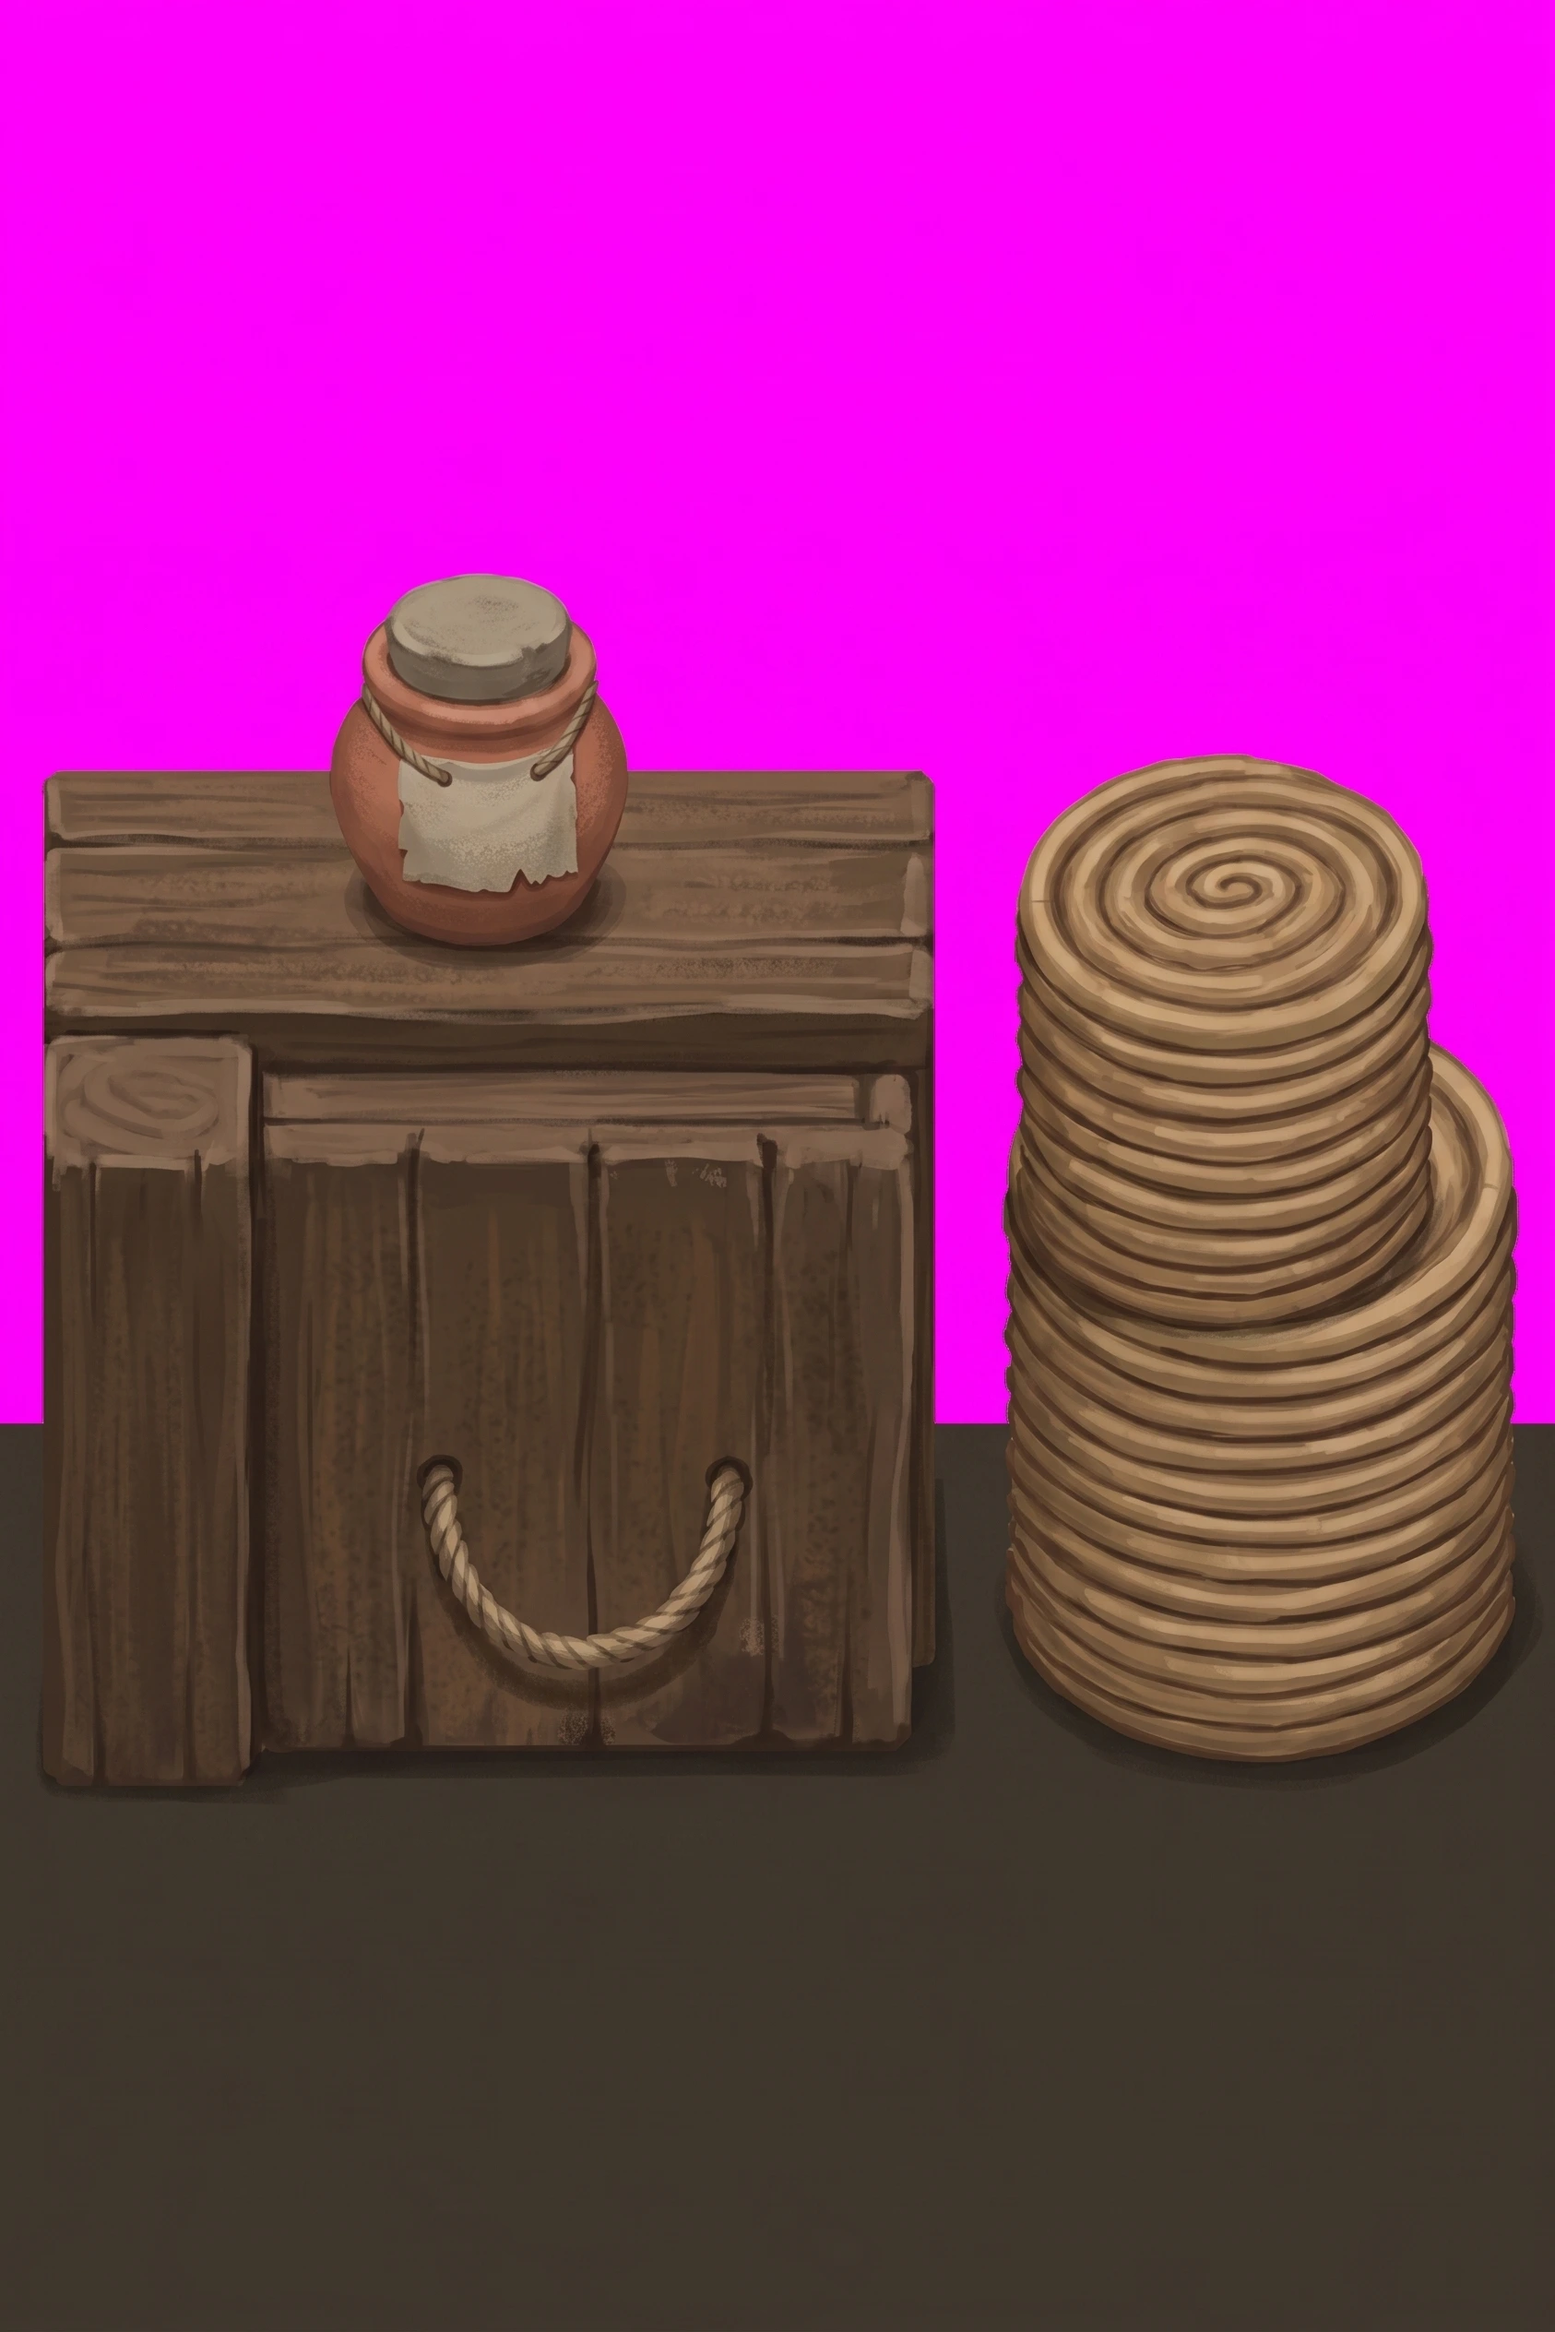
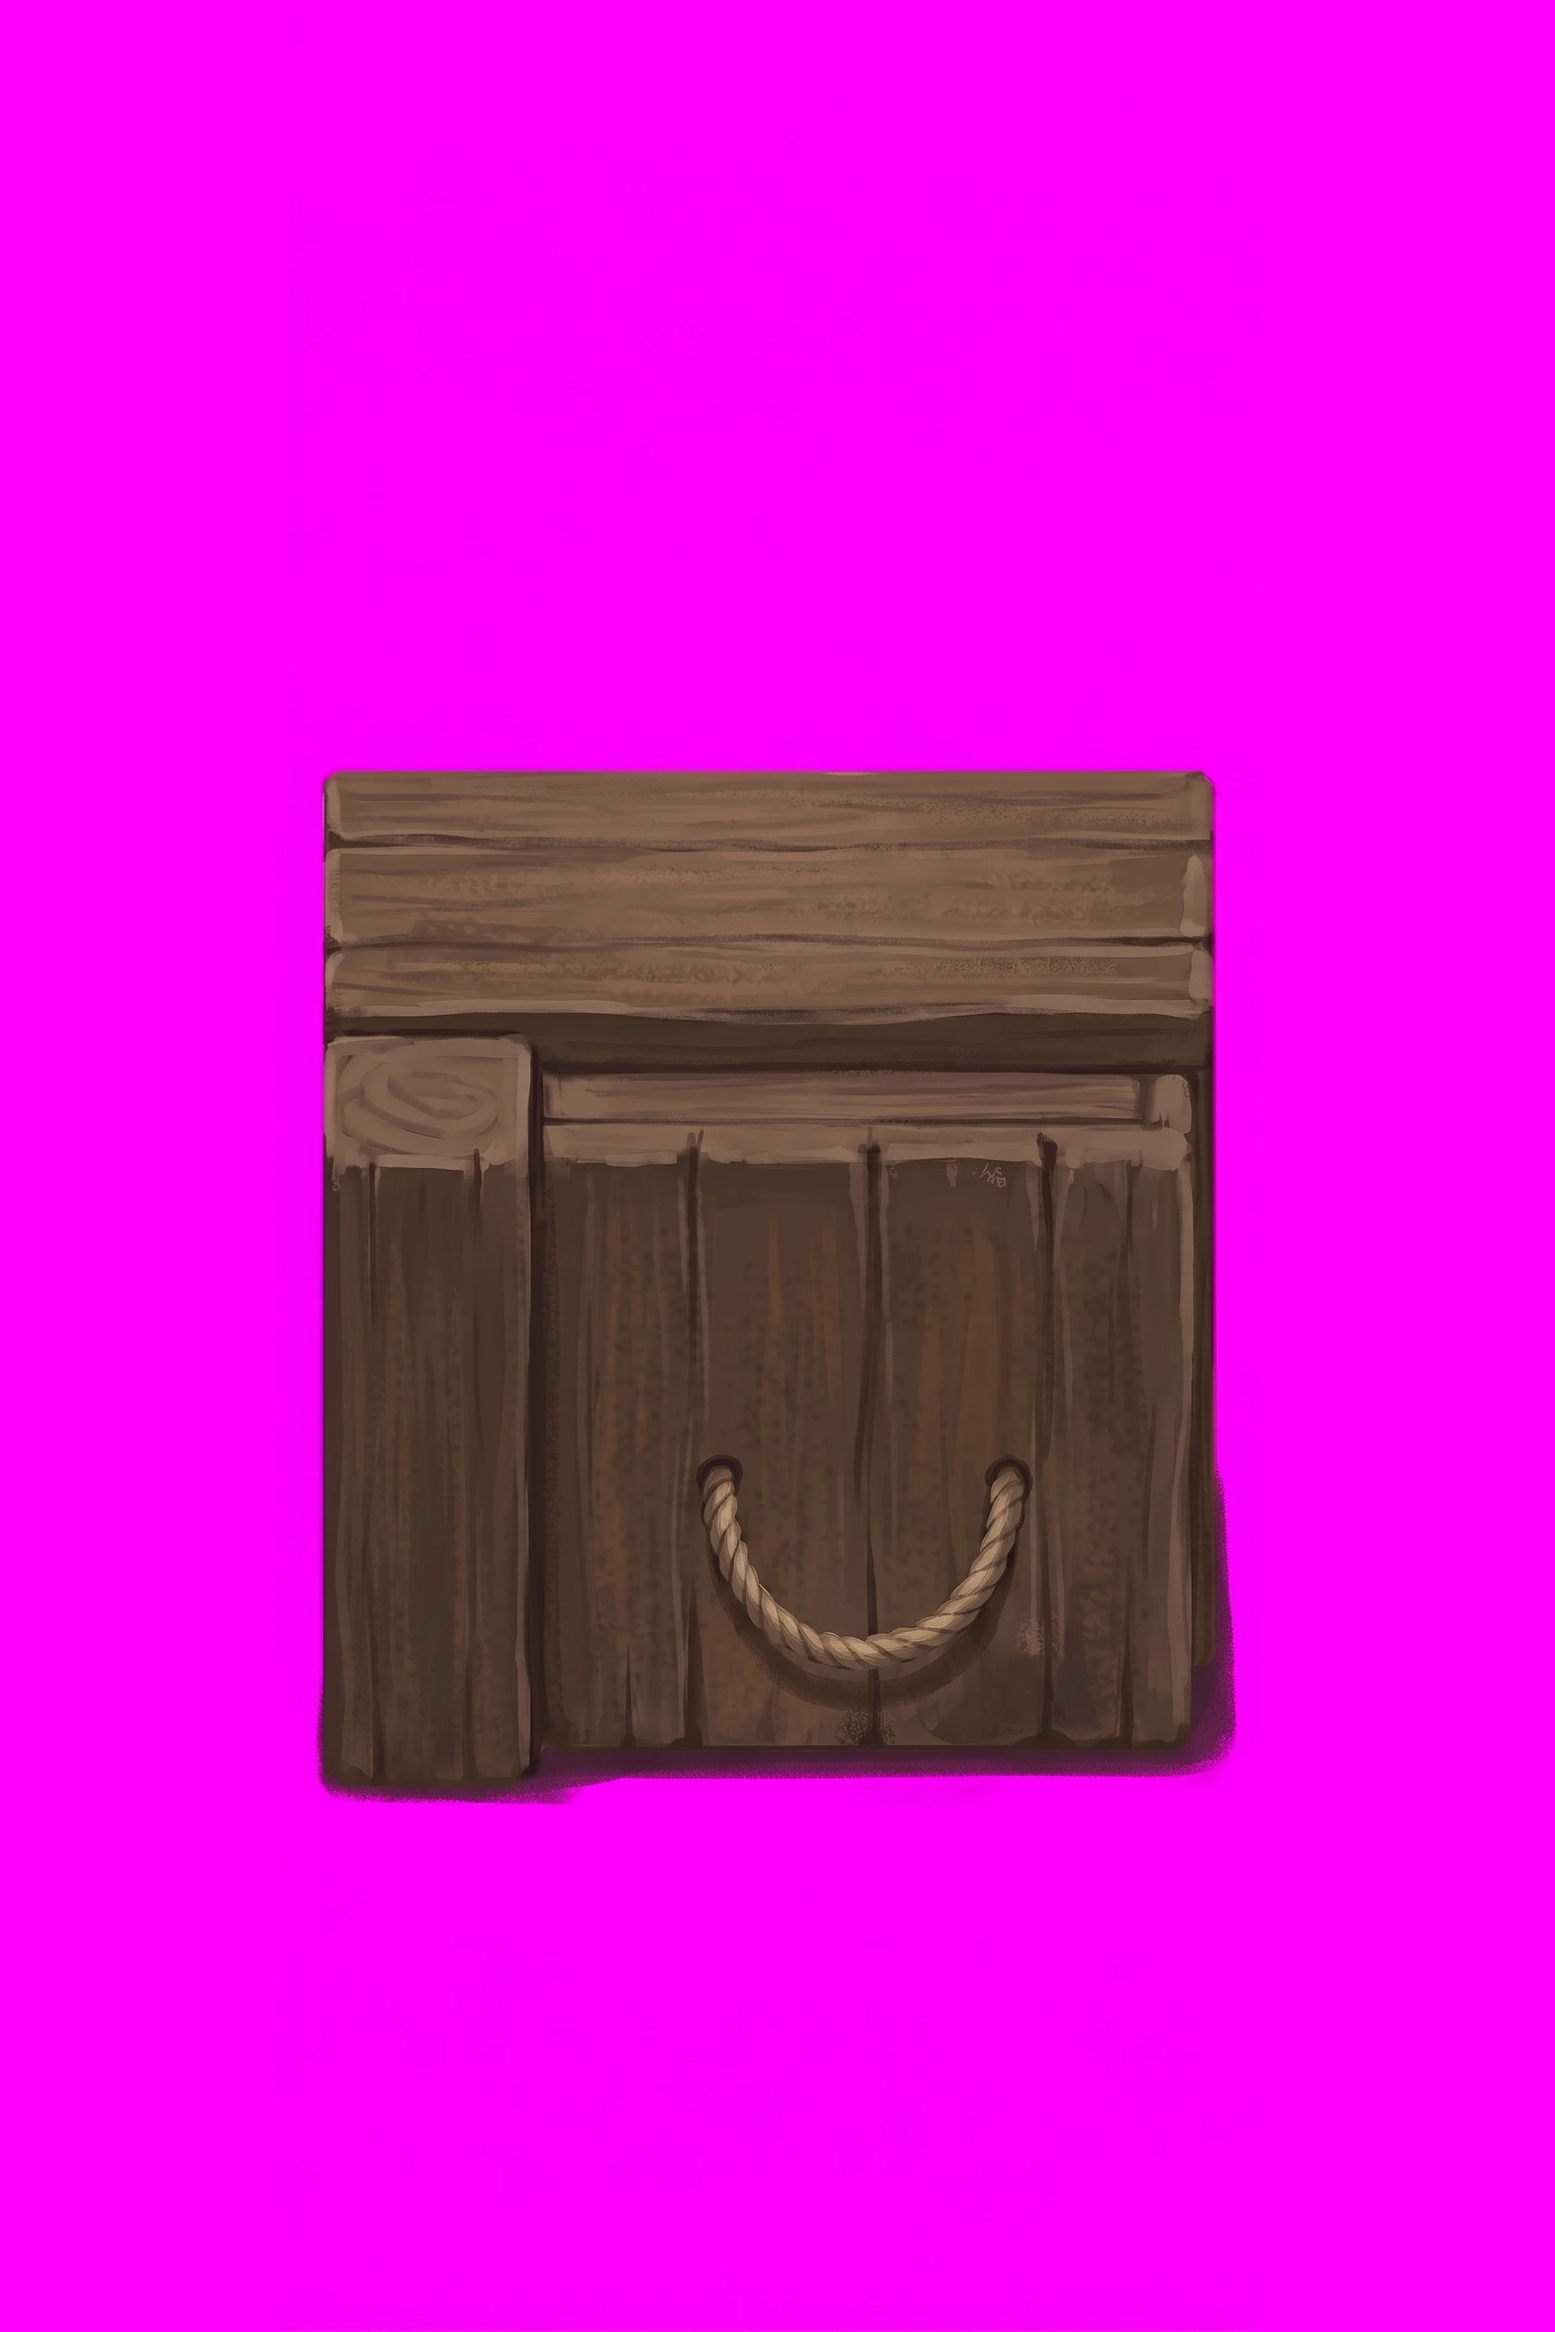
starter chest is the crate alone
Claude-Session: https://claude.ai/code/session_01F6g2diRzQCzQwEf9zsEEGH

diff --git a/docs/instructions/repaint-queue.md b/docs/instructions/repaint-queue.md
@@ -136,31 +136,6 @@ seen nearly edge-on, which keeps it a narrow band above the chest.
 merchant's best box is still cedar and faience, not gold. It is a new shape, so it has a scaffold: the
 nobleman's sealed chest at starter, the cavetto chest at junior.
 
-### `starter/chestProp` — the merchant's crate, alone
-
-**The chest's screen draws this tile on its own**, so it must read as ONE chest: the reed baskets and the jar
-go. An erase, not a repaint: the crate keeps its own pixels and camera. Paint this before
-`starter/chestPropOpen`, which is an edit of it.
-
-**Attach:**
-
-1. `art/masters/props/starter/chestProp.webp` — the chest as painted now
-
-```
-Edit the attached image. Keep its frame, size and camera exactly.
-
-REMOVE the two stacked reed baskets on the right and the stoppered clay jar on the crate's lid. Where the baskets stood becomes flat #ff00ff magenta background. Where the jar stood, continue the lid's planks so the lid is bare and shut.
-
-CHANGE NOTHING ELSE. The wooden crate stays exactly where it is, at its size, with every plank, its rope handle, its corner post and its paint untouched. Do not move it, centre it, redraw it or turn it.
-
-The dark floor band under the objects becomes magenta too, except the crate's own shadow directly under it, painted #3A342C.
-
-BACKGROUND: flat, solid #ff00ff magenta (red 255 green 0 blue 255) everywhere outside the crate and its shadow.
-```
-
-Then, once the return is in `~/Downloads`, Claude imports it: centres the crate in the frame and seats it on
-the crate's own shadow.
-
 ### `starter/chestPropOpen` — the merchant's crate, lid off, empty
 
 **Attach:**
